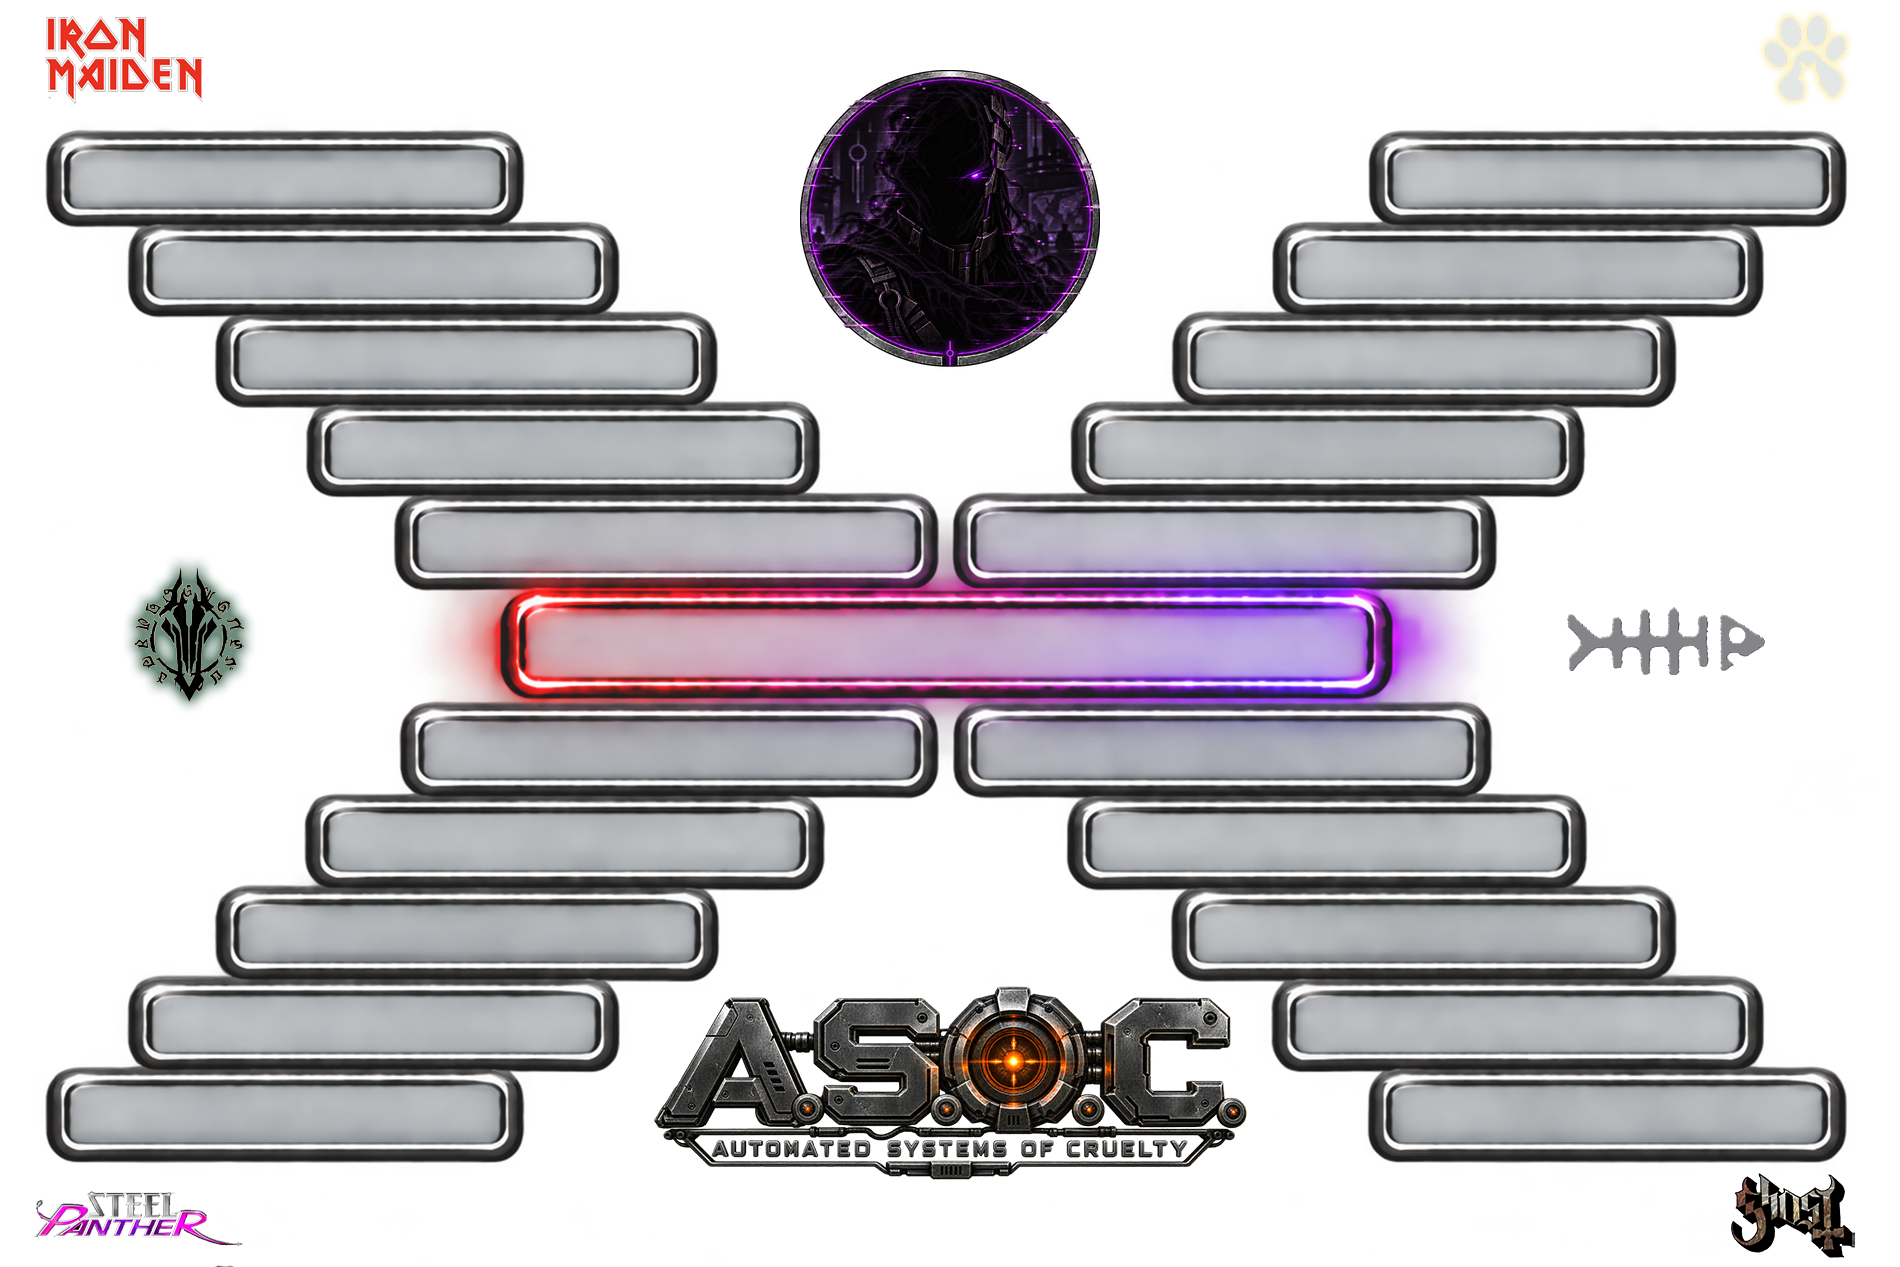
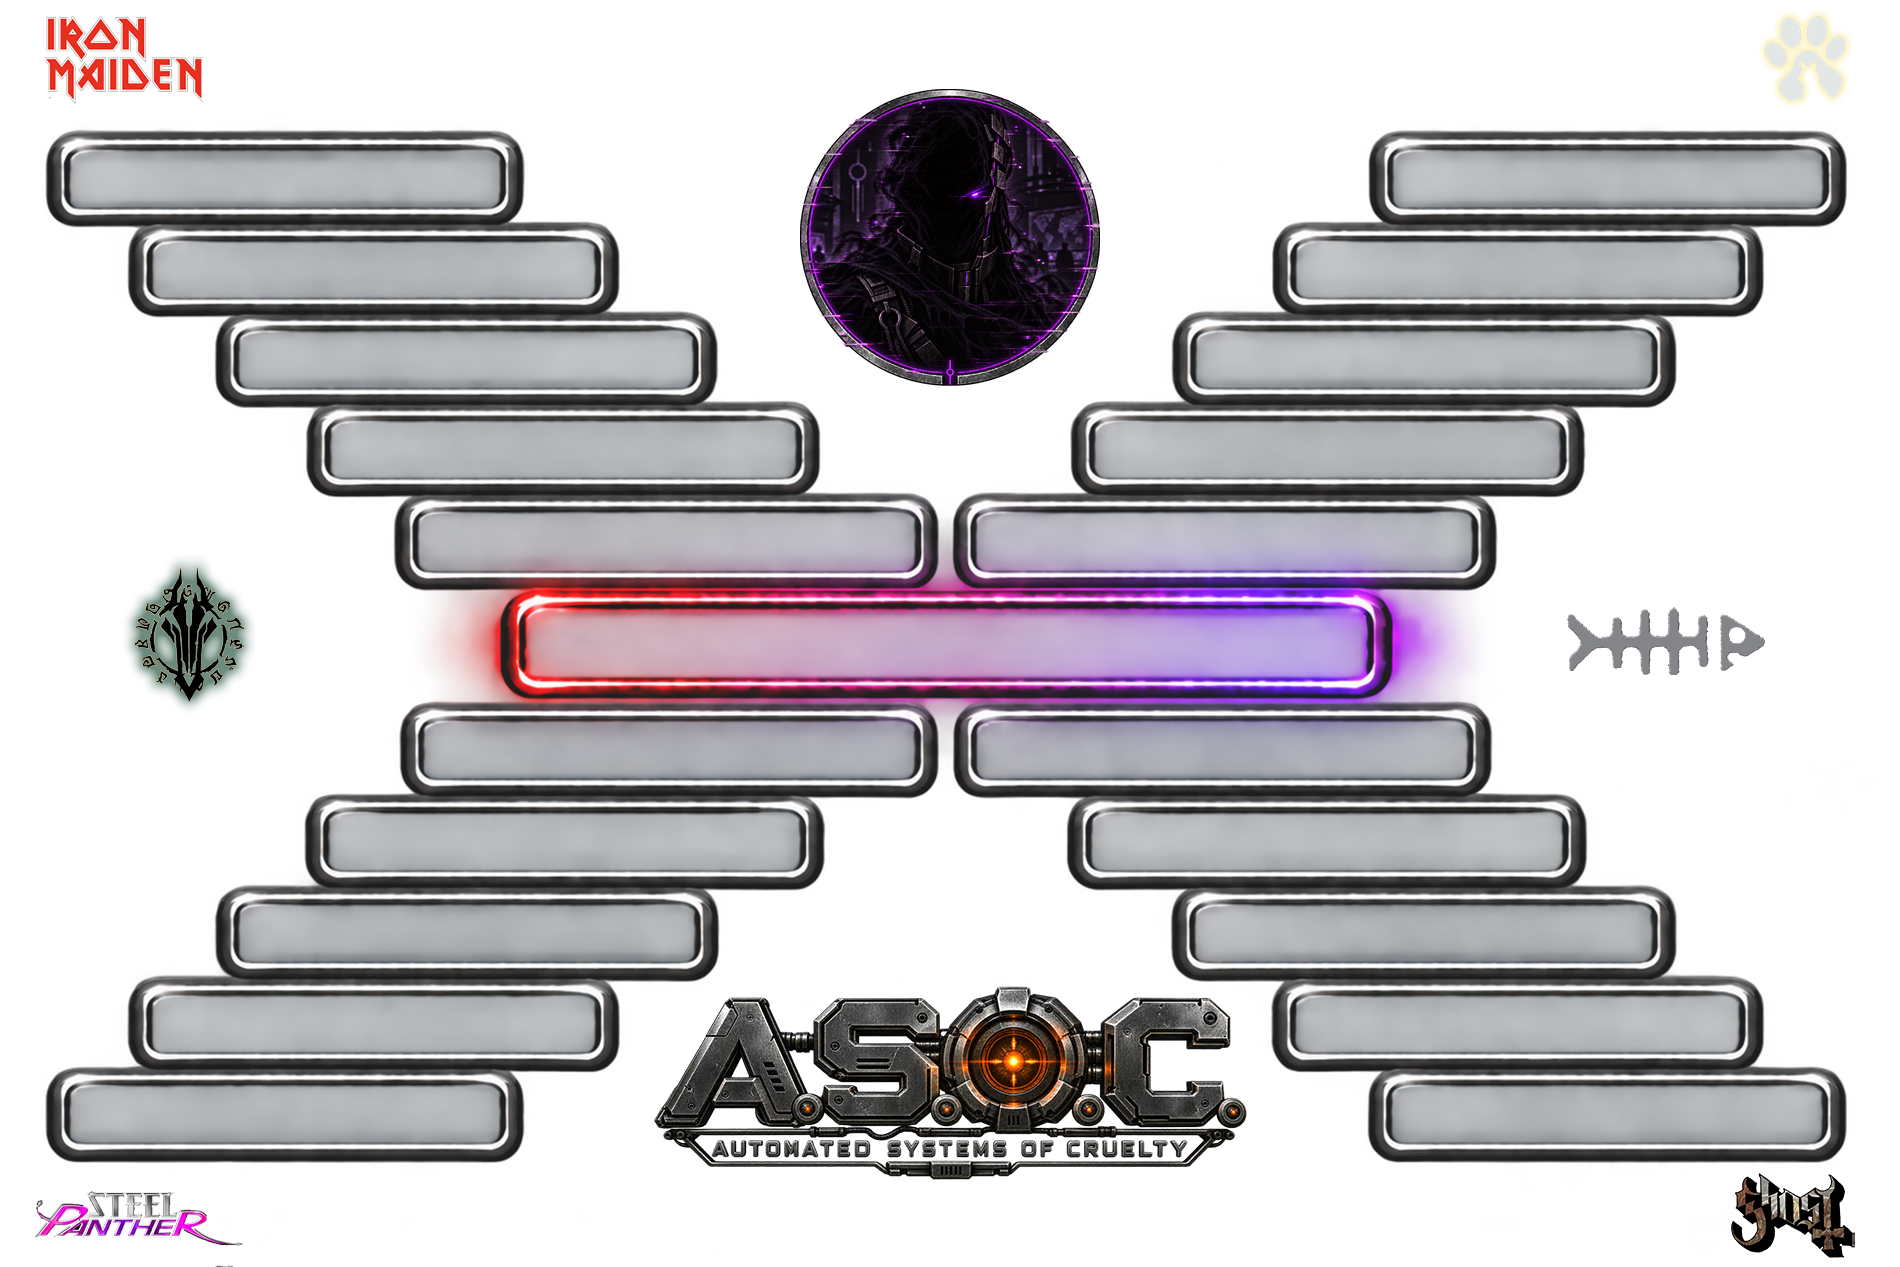
Add theatrical difficulty crossfade and lower Shadow Broker

Changed region(s): [[0.4037, 0.0308, 0.59, 0.3078]]

diff --git a/js/board.js b/js/board.js
@@ -372,17 +372,45 @@ const Board = {
     Skeleton.attach(el);
   },
 
-  // Lightweight refresh for a live, decorative-only difficulty change:
-  // swaps the already-rendered skeleton poster's image src in place,
-  // without rebuilding the board (which would blow away sessionState-
-  // driven reveal/hide DOM classes on the cells). Mirrors the mapping
-  // used at initial render time in
-  // buildBoardHTML() -> Skeleton.skeletonHTML(game.difficulty).
+  // Lightweight refresh for a live, decorative-only difficulty change.
+  // Crossfades the next full skeleton poster over the current one without
+  // rebuilding the board, preserving every reveal/hide/session DOM class.
   updateSkeleton(difficulty) {
     if (!this.container) return;
-    const img = this.container.querySelector('.skeleton-img');
-    if (!img) return;
-    img.src = Skeleton.skeletonPath(difficulty);
+    const current = this.container.querySelector('.skeleton-img:not(.skeleton-transition-in)');
+    if (!current) return;
+
+    const nextSrc = Skeleton.skeletonPath(difficulty);
+    if (current.getAttribute('src') === nextSrc) return;
+
+    // Abort any half-finished prior transition before starting a new one.
+    this.container.querySelectorAll('.skeleton-img.skeleton-transition-in').forEach(img => img.remove());
+    current.classList.remove('skeleton-transition-out');
+
+    const next = document.createElement('img');
+    next.className = 'skeleton-img loaded skeleton-transition-in';
+    next.alt = '';
+    next.src = nextSrc;
+
+    const begin = () => {
+      if (!next.isConnected) return;
+      this.container.appendChild(next);
+      requestAnimationFrame(() => {
+        requestAnimationFrame(() => {
+          next.classList.add('skeleton-transition-active');
+          current.classList.add('skeleton-transition-out');
+        });
+      });
+
+      setTimeout(() => {
+        if (current.isConnected) current.remove();
+        next.classList.remove('skeleton-transition-in', 'skeleton-transition-active');
+        Skeleton.attach(this.container);
+      }, 900);
+    };
+
+    if (next.complete && next.naturalWidth > 0) begin();
+    else next.onload = begin;
   },
 
   renderPreview(containerSelector, game) {

diff --git a/css/asoc.css b/css/asoc.css
@@ -370,6 +370,30 @@ textarea {
     opacity: 1;
   }
 
+  /* Difficulty swap theatre: old poster dissolves while the new one fades
+     through with a slight luminous lift. Both posters occupy the exact same
+     canonical 1900x1267 geometry, so this is presentation-only. */
+  .asoc-board .skeleton-img.skeleton-transition-in {
+    opacity: 0 !important;
+    filter: brightness(1.18) saturate(1.12) contrast(1.04);
+    transition:
+      opacity 850ms cubic-bezier(.22,.61,.36,1),
+      filter 850ms ease;
+  }
+
+  .asoc-board .skeleton-img.skeleton-transition-in.skeleton-transition-active {
+    opacity: 1 !important;
+    filter: brightness(1) saturate(1) contrast(1);
+  }
+
+  .asoc-board .skeleton-img.skeleton-transition-out {
+    opacity: 0 !important;
+    filter: brightness(0.72) saturate(0.82) contrast(1.03);
+    transition:
+      opacity 850ms cubic-bezier(.22,.61,.36,1),
+      filter 850ms ease;
+  }
+
   .asoc-board .board-cell {
     position: absolute;
     z-index: 2;
@@ -1533,7 +1557,7 @@ textarea {
   background: var(--button-bg);
   border: 1px solid var(--button-border);
   border-radius: 6px;
-  padding: calc(8px + 5mm) 10px 8px;
+  padding: 8px 10px;
   margin-bottom: 8px;
   animation: fadeIn 0.2s ease;
 }

diff --git a/js/skeleton.js b/js/skeleton.js
@@ -235,15 +235,15 @@ const Skeleton = (() => {
   // SHADOW BROKER BOARD LINE
   //
   // A transient HUD readout positioned directly above the Shadow Broker
-  // avatar's fixed position in the skeleton art (avatar center (950,220),
-  // radius 150 -- see the avatar placement itself). This is NOT a chat
+  // avatar's fixed position in the skeleton art (avatar center (950,239),
+  // radius 150 after the Sep 18 theatrical-spacing pass). This is NOT a chat
   // bubble: a single plain line of text in a tactical/military font,
   // appearing "above his head" wherever the board itself is rendered
   // (Public View, the player's own board) whenever the GM sends a
   // standalone Shadow Broker broadcast. Centered on the same x=950
   // vertical axis as the avatar, sitting in the clear space between the
   // canvas top edge and the avatar's own top edge (220-150=70).
-  const SHADOW_BROKER_LINE_SLOT = { x: 550, y: 8, w: 800, h: 55 };
+  const SHADOW_BROKER_LINE_SLOT = { x: 550, y: 27, w: 800, h: 55 };
 
   function shadowBrokerLineStyle() {
     if (!supported) return '';

diff --git a/join.html b/join.html
@@ -459,7 +459,7 @@
       background: var(--button-bg);
       border: 1px solid var(--button-border);
       border-radius: 6px;
-      padding: calc(8px + 5mm) 10px 8px;
+      padding: 8px 10px;
       margin-bottom: 8px;
       animation: fadeIn 0.2s ease;
     }
